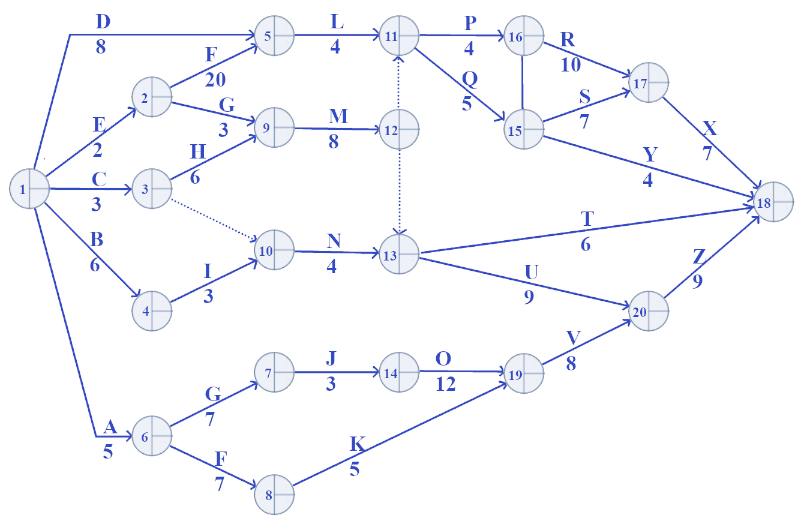
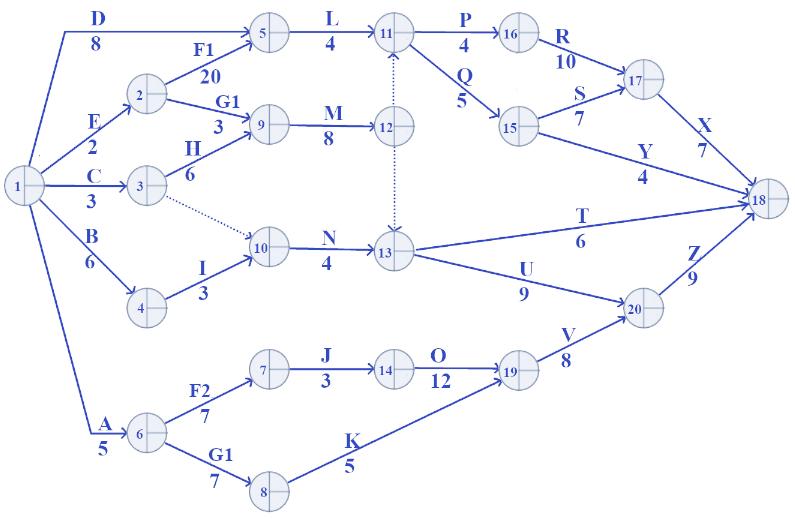
Atualizando

diff --git a/exercicios/pertcpm03.md b/exercicios/pertcpm03.md
@@ -5,4 +5,9 @@
 3. Indicar o caminho crítico
 4. Elaborar o cronograma integrado
 
+
 ![alt text](image-50.png)
+
+![alt text](image-53.png)
+
+![alt text](image-54.png)
